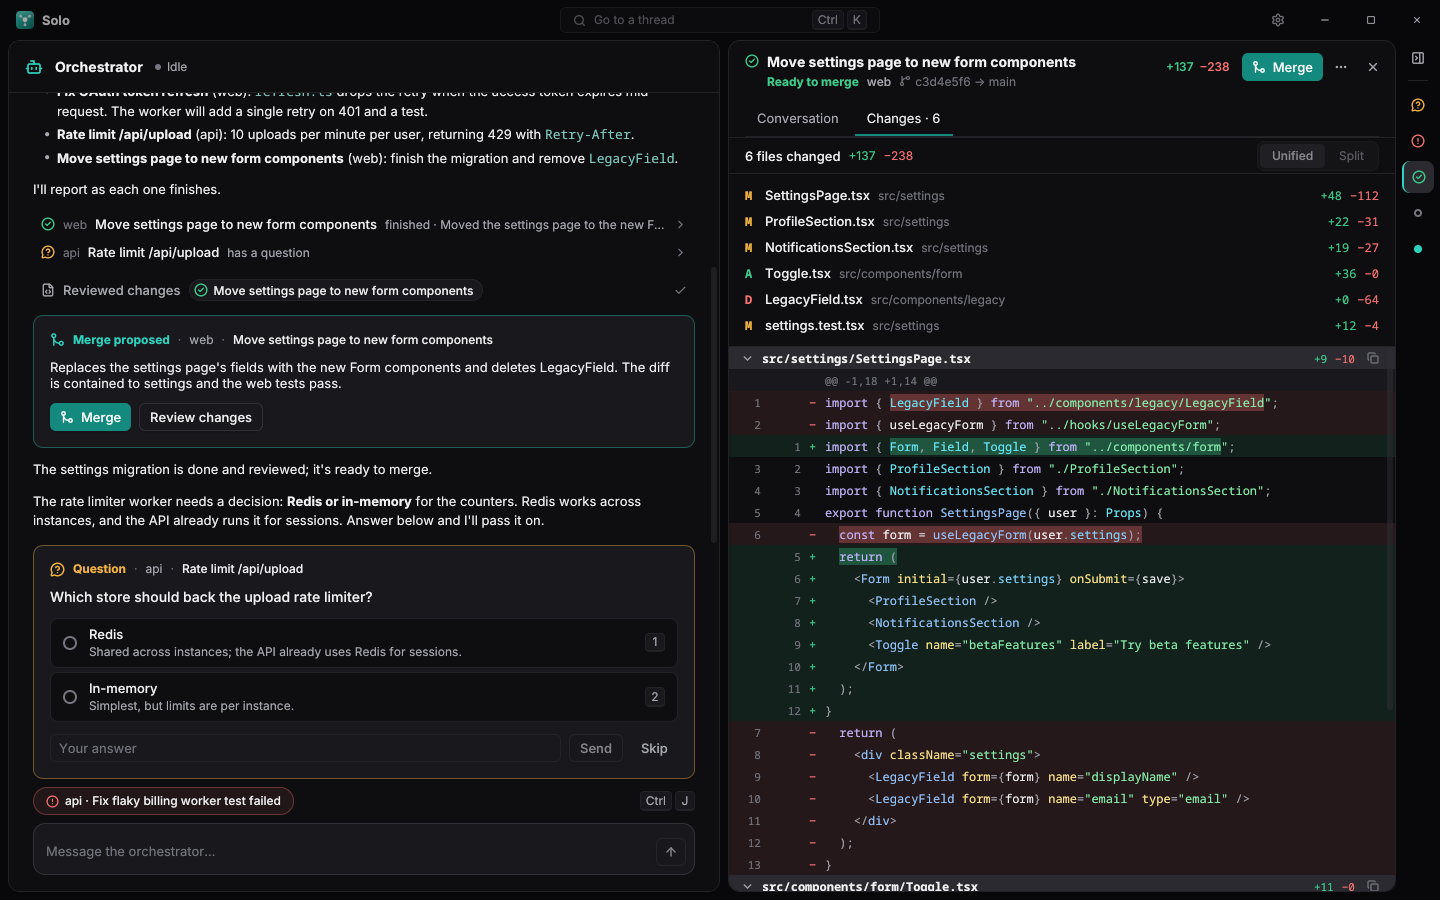
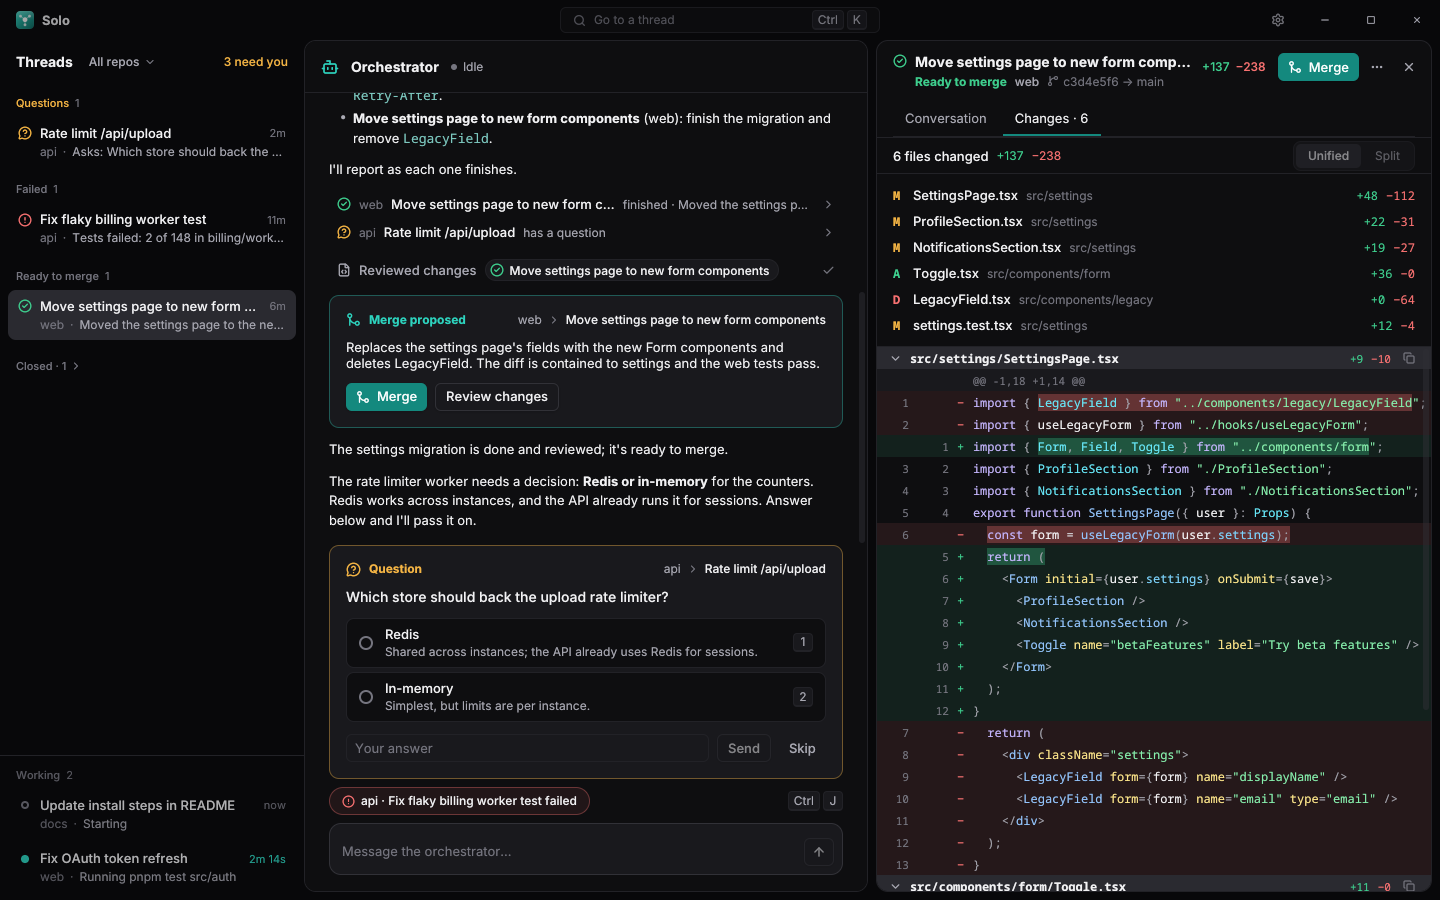
feat(gui): thread rail on the left, thread panel from the right, action pill
The thread rail moves to the left and stays put; an opened thread's
panel slides in from the right of the orchestrator and back out on
close, so the status strip is gone. When merge proposals or questions
that need the user scroll out of the orchestrator's view, a floating
pill at the top or bottom edge says how many and scrolls to the nearest.
The orchestrator's conversation opens on its latest message.

diff --git a/internal/gui/app.go b/internal/gui/app.go
@@ -44,6 +44,8 @@ type App struct {
 	settings  *ui.Signal[bool]
 	confirm   *ui.Signal[*confirmation]
 	palette   *ui.Signal[bool]
+	built     map[string]bool // transcript rows that are built, by scope/key (UI thread only)
+	builtVer  *ui.Signal[int]
 
 	items map[string]*ui.Signal[[]core.Item] // UI thread only
 
@@ -82,6 +84,7 @@ func New(b Backend) *App {
 		settings:  ui.NewSignal(false),
 		confirm:   ui.NewSignal[*confirmation](nil),
 		palette:   ui.NewSignal(false),
+		builtVer:  ui.NewSignal(0),
 		items:     map[string]*ui.Signal[[]core.Item]{},
 		dirty:     map[string]bool{},
 		watched:   map[string]bool{},
@@ -238,7 +241,7 @@ func (a *App) Root(ctx *ui.Context) ui.Element {
 	}
 	return root.
 		Child(a.titleBar(ctx)).
-		Child(ui.Div().Column().Grow(1).MinHeight(ui.Px(0)).PaddingLeft(space2).ClipContent().
+		Child(ui.Div().Column().Grow(1).MinHeight(ui.Px(0)).ClipContent().
 			Child(ui.Component(a.center))).
 		Child(ui.Component(a.settingsDialog)).
 		Child(ui.Component(a.confirmDialog)).
@@ -295,58 +298,52 @@ func inset(ctx *ui.Context, content ui.Element) *ui.DivElement {
 		Child(content)
 }
 
-// center holds the orchestrator and, on its right, the thread rail. Opening a thread grows the rail
-// into the thread's panel (half the space by default, and the user can drag the divider); closing it
-// slides the panel back into the rail.
+// center holds the thread rail on the left, the orchestrator, and, when a thread is open, its panel on
+// the right: it slides in from the right edge to half the space (the user can drag the divider) and
+// slides back out when closed.
 func (a *App) center(ctx *ui.Context) ui.Element {
 	t := ctx.Theme()
 	orch := ui.Div().Column().Size(ui.Full, ui.Full).PaddingBottom(space2).
 		Child(inset(ctx, ui.Component(a.orchestratorView)))
 	anim := a.panelAnim.Get()
-	open := a.openID.Get() != ""
-
-	var right ui.Element
-	if open {
-		right = ui.Div().Row().Size(ui.Full, ui.Full).PaddingBottom(space2).
+	var main ui.Element = orch
+	if anim > 0 && a.openID.Get() != "" {
+		panel := ui.Div().Column().Size(ui.Full, ui.Full).PaddingBottom(space2).PaddingRight(space2).
 			OnKeyDown(func(e *ui.KeyEvent) {
 				if e.Key == input.KeyEscape {
 					e.StopPropagation()
 					a.closeThread()
 				}
 			}).
-			Child(inset(ctx, ui.Component(a.threadPanel))).
-			Child(ui.Component(a.dotStrip))
-	} else {
-		right = ui.Component(a.rail)
-	}
-	pane := ui.Pane(right).Key("right").Label("Threads")
-	switch {
-	case anim >= 1:
-		pane = pane.SizeSignal(a.panelSize).Min(ui.Px(400)).Max(ui.Percent(75))
-	case anim <= 0:
-		pane = pane.Size(ui.Px(railWidth)).Min(ui.Px(railWidth)).Max(ui.Px(railWidth))
-	default:
-		// Between the rail's width and the panel's, in pixels of the space the split has.
-		w, _ := ctx.WindowSize()
-		target := (w - space2) * a.panelGoal / 100
-		px := railWidth + (target-railWidth)*anim
-		pane = pane.Size(ui.Px(px)).Min(ui.Px(px)).Max(ui.Px(px))
-	}
-	thin := ui.Style{Width: ui.Px(space2), Background: t.Panel}
-	return ui.Split(
-		ui.Pane(orch).Min(ui.Px(320)).Key("orch").Label("Orchestrator"),
-		pane,
-	).Grip(map[bool]ui.SplitGrip{true: ui.SplitGripOnHover, false: ui.SplitGripHidden}[anim >= 1]).
-		Styles(ui.SplitStyle{
-			Divider:       thin,
-			DividerHover:  ui.Style{Background: t.Panel},
-			DividerActive: ui.Style{Background: t.Panel},
-			Grip:          ui.Style{Background: t.BorderStrong},
-		}).OnChange(func() {
-		if l := a.panelSize.Peek(); l.Unit == ui.Percent(0).Unit {
-			a.panelGoal = l.Value
+			Child(inset(ctx, ui.Component(a.threadPanel)))
+		pane := ui.Pane(panel).Key("thread").Label("Thread")
+		if anim >= 1 {
+			pane = pane.SizeSignal(a.panelSize).Min(ui.Px(400)).Max(ui.Percent(75))
+		} else {
+			// While it slides, the panel follows the animation, below its usual minimum.
+			pane = pane.Size(ui.Percent(a.panelGoal * anim)).Min(ui.Px(0)).Max(ui.Percent(75))
 		}
-	})
+		thin := ui.Style{Width: ui.Px(space2), Background: t.Panel}
+		main = ui.Split(
+			ui.Pane(orch).Min(ui.Px(360)).Key("orch").Label("Orchestrator"),
+			pane,
+		).Grip(map[bool]ui.SplitGrip{true: ui.SplitGripOnHover, false: ui.SplitGripHidden}[anim >= 1]).
+			Styles(ui.SplitStyle{
+				Divider:       thin,
+				DividerHover:  ui.Style{Background: t.Panel},
+				DividerActive: ui.Style{Background: t.Panel},
+				Grip:          ui.Style{Background: t.BorderStrong},
+			}).OnChange(func() {
+			if l := a.panelSize.Peek(); l.Unit == ui.Percent(0).Unit {
+				a.panelGoal = l.Value
+			}
+		})
+	} else {
+		main = ui.Div().Column().Size(ui.Full, ui.Full).PaddingRight(space2).Child(orch)
+	}
+	return ui.Div().Row().Size(ui.Full, ui.Full).
+		Child(ui.Div().Width(ui.Px(railWidth)).Height(ui.Full).Shrink(0).Child(ui.Component(a.rail))).
+		Child(ui.Div().Column().Grow(1).Basis(ui.Px(0)).MinWidth(ui.Px(0)).Height(ui.Full).Child(main))
 }
 
 // openThread shows a thread beside the orchestrator, on a tab ("conversation" or "changes").
@@ -509,32 +506,4 @@ func (a *App) jumpTo(n int) {
 	if list := a.openThreads(false); n < len(list) {
 		a.openThread(list[n].ID, "conversation")
 	}
-}
-
-// dotStrip keeps the threads in reach while one is open: a mark per thread to switch to it, and a
-// button back to the list.
-func (a *App) dotStrip(ctx *ui.Context) ui.Element {
-	t := ctx.Theme()
-	col := ui.Div().Column().Align(ui.Center).Gap(space1).Width(ui.Px(44)).Shrink(0).PaddingTop(space1).
-		Child(ui.IconButton(icons.PanelRightClose).Ghost().Small().Label("Back to the thread list").
-			Tooltip("Back to the thread list (Esc)").OnClick(a.closeThread)).
-		Child(ui.Div().Width(ui.Px(20)).Height(ui.Px(1)).Background(t.Border).MarginY(space1))
-	open := a.openID.Get()
-	for i, th := range a.openThreads(true) {
-		id := th.ID
-		tip := th.Title + " · " + statusLabel(th)
-		if i < 9 {
-			tip += fmt.Sprintf(" (Ctrl+%d)", i+1)
-		}
-		b := ui.Div().Size(ui.Px(32), ui.Px(32)).Center().Radius(radiusM).Cursor(ui.CursorPointer).
-			Hover(ui.Style{Background: t.SurfaceHover}).
-			Role(access.RoleButton).Label(th.Title).TabIndex(0).Tooltip(tip).Key("dot-" + id).
-			OnClick(func() { a.openThread(id, "conversation") }).
-			Child(statusMark(ctx, th.Status))
-		if id == open {
-			b = b.Background(t.SurfaceActive).BorderEdges(ui.Edges{Left: 2}, ui.Hex(pal(t).brand))
-		}
-		col = col.Child(b)
-	}
-	return col
 }

diff --git a/internal/gui/chat.go b/internal/gui/chat.go
@@ -160,12 +160,31 @@ func (a *App) transcript(ctx *ui.Context, v core.ThreadView, items []core.Item, 
 		rows = append(rows, row{key: "busy", busy: true})
 	}
 	h := ui.Local(ctx, scope+"-list", ui.NewListHandle()).Peek()
-	return ui.ListOf(rows, func(r row) string { return r.key }, func(_ int, r row) ui.Element {
-		return ui.Div().Column().Align(ui.Center).PaddingX(space6).
-			Child(ui.Div().Column().Width(ui.Full).MaxWidth(ui.Px(chatMaxWidth)).PaddingY(space1 + 2).
-				Child(a.rowView(ctx, v, r)))
+	// Open on the latest message; after that the list follows new ones while it is at the end.
+	if started := ui.Local(ctx, scope+"-started", false); !started.Peek() && len(rows) > 0 {
+		started.Set(true)
+		h.ScrollToEnd()
+	}
+	list := ui.ListOf(rows, func(r row) string { return r.key }, func(_ int, r row) ui.Element {
+		key := r.key
+		// Rows are built only near the viewport; which ones are built tells the pill below what has
+		// scrolled away.
+		return ui.Component(func(rctx *ui.Context) ui.Element {
+			a.markBuilt(rctx, scope, key, true)
+			rctx.OnDispose(func() { a.markBuilt(rctx, scope, key, false) })
+			return ui.Div().Column().Align(ui.Center).PaddingX(space6).
+				Child(ui.Div().Column().Width(ui.Full).MaxWidth(ui.Px(chatMaxWidth)).PaddingY(space1 + 2).
+					Child(a.rowView(rctx, v, r)))
+		})
 	}).Bottom().Handle(h).SelectionContainer().Key(scope + "-transcript").Label("Conversation").
 		Style(ui.Style{Grow: 1, Padding: ui.Edges{Top: space4, Bottom: space2}})
+	if scope != "orch" {
+		return list
+	}
+	return ui.Div().Column().Grow(1).MinHeight(ui.Px(0)).
+		Child(ui.Component(func(ctx *ui.Context) ui.Element { return a.offscreenPill(ctx, rows, h, true) })).
+		Child(list).
+		Child(ui.Component(func(ctx *ui.Context) ui.Element { return a.offscreenPill(ctx, rows, h, false) }))
 }
 
 // visible reports whether an item is shown in the transcript.
@@ -903,12 +922,95 @@ func (a *App) cardHeader(ctx *ui.Context, icon *icons.Icon, c ui.Color, typ, thr
 	// The repository and thread sit at the right: repo › title.
 	return row.
 		Child(ui.Div().Grow(1)).
-		Child(ui.Div().Row().Align(ui.Center).Gap(space1+2).Shrink(1).MinWidth(ui.Px(0)).
+		Child(ui.Div().Row().Align(ui.Center).Gap(space1 + 2).Shrink(1).MinWidth(ui.Px(0)).
 			Child(ui.Text(filepath.Base(th.RepoPath)).FontSize(12).TextColor(t.TextMuted).NoWrap()).
 			Child(ui.Icon(icons.ChevronRight).Size(12).Color(t.TextSubtle)).
 			Child(ui.Div().MinWidth(ui.Px(0)).Cursor(ui.CursorPointer).
-				Role(access.RoleButton).Label("Open "+th.Title).TabIndex(0).Tooltip("Open this thread").
+				Role(access.RoleButton).Label("Open " + th.Title).TabIndex(0).Tooltip("Open this thread").
 				Hover(ui.Style{TextColor: t.Link}).
 				OnClick(func() { a.openThread(threadID, "conversation") }).
 				Child(ui.Text(th.Title).FontSize(12).Medium().Truncate())))
+}
+
+// markBuilt records that a transcript row is built (near the viewport) or not. UI thread only.
+func (a *App) markBuilt(ctx *ui.Context, scope, key string, on bool) {
+	if a.built == nil {
+		a.built = map[string]bool{}
+	}
+	k := scope + "/" + key
+	if a.built[k] == on {
+		return
+	}
+	if on {
+		a.built[k] = true
+	} else {
+		delete(a.built, k)
+	}
+	// Not during this render: tell the pill on the next frame.
+	ctx.Post(func() { a.builtVer.Update(func(n int) int { return n + 1 }) })
+}
+
+// isAction reports whether a transcript row waits on the user: a merge proposal not yet acted on, or
+// a question not yet answered.
+func (a *App) isAction(r row) bool {
+	if r.item == nil {
+		return false
+	}
+	switch r.item.Kind {
+	case core.ItemProposal:
+		th, ok := a.thread(r.item.Ref)
+		return ok && th.CanMerge
+	case core.ItemQuestion:
+		var d core.QuestionData
+		r.item.Decode(&d)
+		return !d.Cancelled && len(d.Answers) == 0
+	}
+	return false
+}
+
+// offscreenPill floats over the top (top=true) or bottom edge of the orchestrator's conversation when
+// cards that need the user have scrolled out of view that way; a click scrolls to the nearest one. It
+// hangs from a zero-height anchor as an overlay, so only the pill itself takes the pointer.
+func (a *App) offscreenPill(ctx *ui.Context, rows []row, h *ui.ListHandle, top bool) ui.Element {
+	t := ctx.Theme()
+	a.builtVer.Get()
+	anchor := ui.Div().Width(ui.Full).Height(ui.Px(0)).Shrink(0)
+	first, last := -1, -1
+	for i, r := range rows {
+		if a.built["orch/"+r.key] {
+			if first < 0 {
+				first = i
+			}
+			last = i
+		}
+	}
+	if first < 0 {
+		return anchor
+	}
+	var hidden []int
+	for i, r := range rows {
+		if a.isAction(r) && ((top && i < first) || (!top && i > last)) {
+			hidden = append(hidden, i)
+		}
+	}
+	if len(hidden) == 0 {
+		return anchor
+	}
+	target, icon, place := hidden[len(hidden)-1], icons.ArrowUp, ui.BelowCenter
+	if !top {
+		target, icon, place = hidden[0], icons.ArrowDown, ui.AboveCenter
+	}
+	label := "1 needs your action"
+	if len(hidden) > 1 {
+		label = fmt.Sprintf("%d need your action", len(hidden))
+	}
+	pill := ui.Div().Row().Align(ui.Center).Gap(6).PaddingX(space3).Height(ui.Px(30)).Radius(15).
+		Background(t.Surface).Border(1, t.Warning.Alpha(0.55)).Shadow(ui.ShadowMd).Cursor(ui.CursorPointer).
+		Hover(ui.Style{Background: t.SurfaceHover}).
+		Role(access.RoleButton).Label(label).TabIndex(0).Key("offscreen-pill").
+		Overlay(place).OverlayGap(space3).
+		OnClick(func() { h.ScrollToItem(target) }).
+		Child(ui.Icon(icon).Size(14).Color(t.Warning)).
+		Child(ui.Text(label).FontSize(12).Medium())
+	return anchor.Child(pill)
 }

diff --git a/internal/gui/shots_test.go b/internal/gui/shots_test.go
@@ -1,6 +1,7 @@
 package gui
 
 import (
+	"fmt"
 	"image/png"
 	"os"
 	"path/filepath"
@@ -40,6 +41,14 @@ func TestShots(t *testing.T) {
 		{"narrow-thread", func(a *App, f *fakeBackend) { a.openThread("c3d4e5f6-forms", "conversation") }},
 		{"settings", func(a *App, f *fakeBackend) { diffSplit.Set(false); a.settings.Set(true) }},
 		{"palette", func(a *App, f *fakeBackend) { a.palette.Set(true) }},
+		{"pill", func(a *App, f *fakeBackend) {
+			// A long exchange after the merge card pushes it out of view.
+			for i := 0; i < 8; i++ {
+				f.add(core.OrchestratorID, core.ItemUser, core.UserData{Text: fmt.Sprintf("How is the OAuth fix going? (%d)", i+1)})
+				f.add(core.OrchestratorID, core.ItemAssistant, core.TextData{Text: "Still running the auth tests. The refresh path now retries once on a 401; the remaining work is the test for an expired refresh token, which the worker is writing now. I'll tell you when it finishes."})
+			}
+			a.items = map[string]*ui.Signal[[]core.Item]{}
+		}},
 		{"empty", nil},
 	}
 	for _, theme := range []struct {

diff --git a/internal/gui/thread.go b/internal/gui/thread.go
@@ -212,7 +212,7 @@ func (a *App) panelWidth(ctx *ui.Context) float32 {
 	if l := a.panelSize.Get(); l.Unit == ui.Px(0).Unit {
 		return l.Value
 	}
-	return (w-space2)*a.panelGoal/100 - 44
+	return (w - railWidth - space2) * a.panelGoal / 100
 }
 
 func (a *App) composerFor(ctx *ui.Context, th core.ThreadView) ui.Element {

diff --git a/docs/ARCHITECTURE.md b/docs/ARCHITECTURE.md
@@ -13,7 +13,7 @@ Claude **worker threads**, each working in its own git worktree.
 | Repos | Settings hold a list of folders; every git repo found under them is known to the orchestrator. |
 | Workers | One git worktree + branch per thread, `bypassPermissions`, no sandbox. |
 | Landing | Orchestrator reports diff and test results; **you** click Merge. |
-| Layout | Title bar (go-to-thread, settings) · orchestrator chat · thread rail; opening a thread grows the rail into its panel. No repository sidebar: the rail filters by repository when threads span several. |
+| Layout | Title bar (go-to-thread, settings) · thread rail on the left · orchestrator chat · a thread panel that slides in from the right (50/50, resizable). The rail filters by repository when threads span several. |
 | Persistence | SQLite (`modernc.org/sqlite`, no cgo), owned by Go. Claude's own transcripts are used only for `resume`. |
 
 ## Process model
